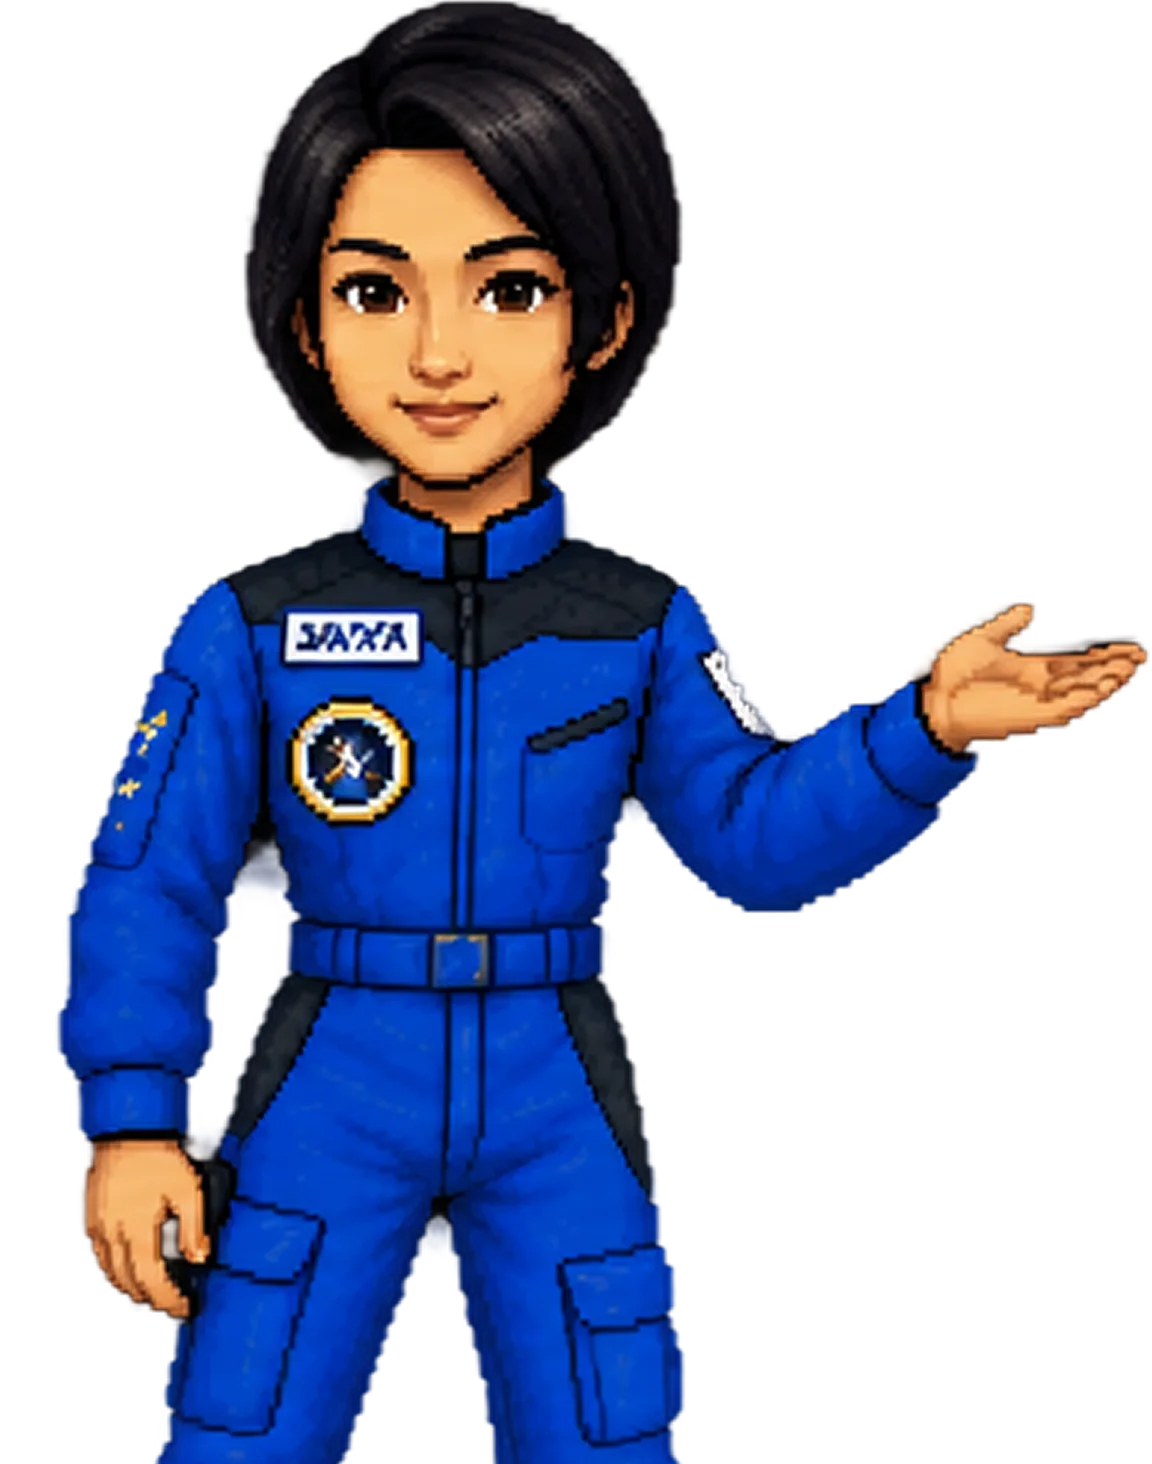
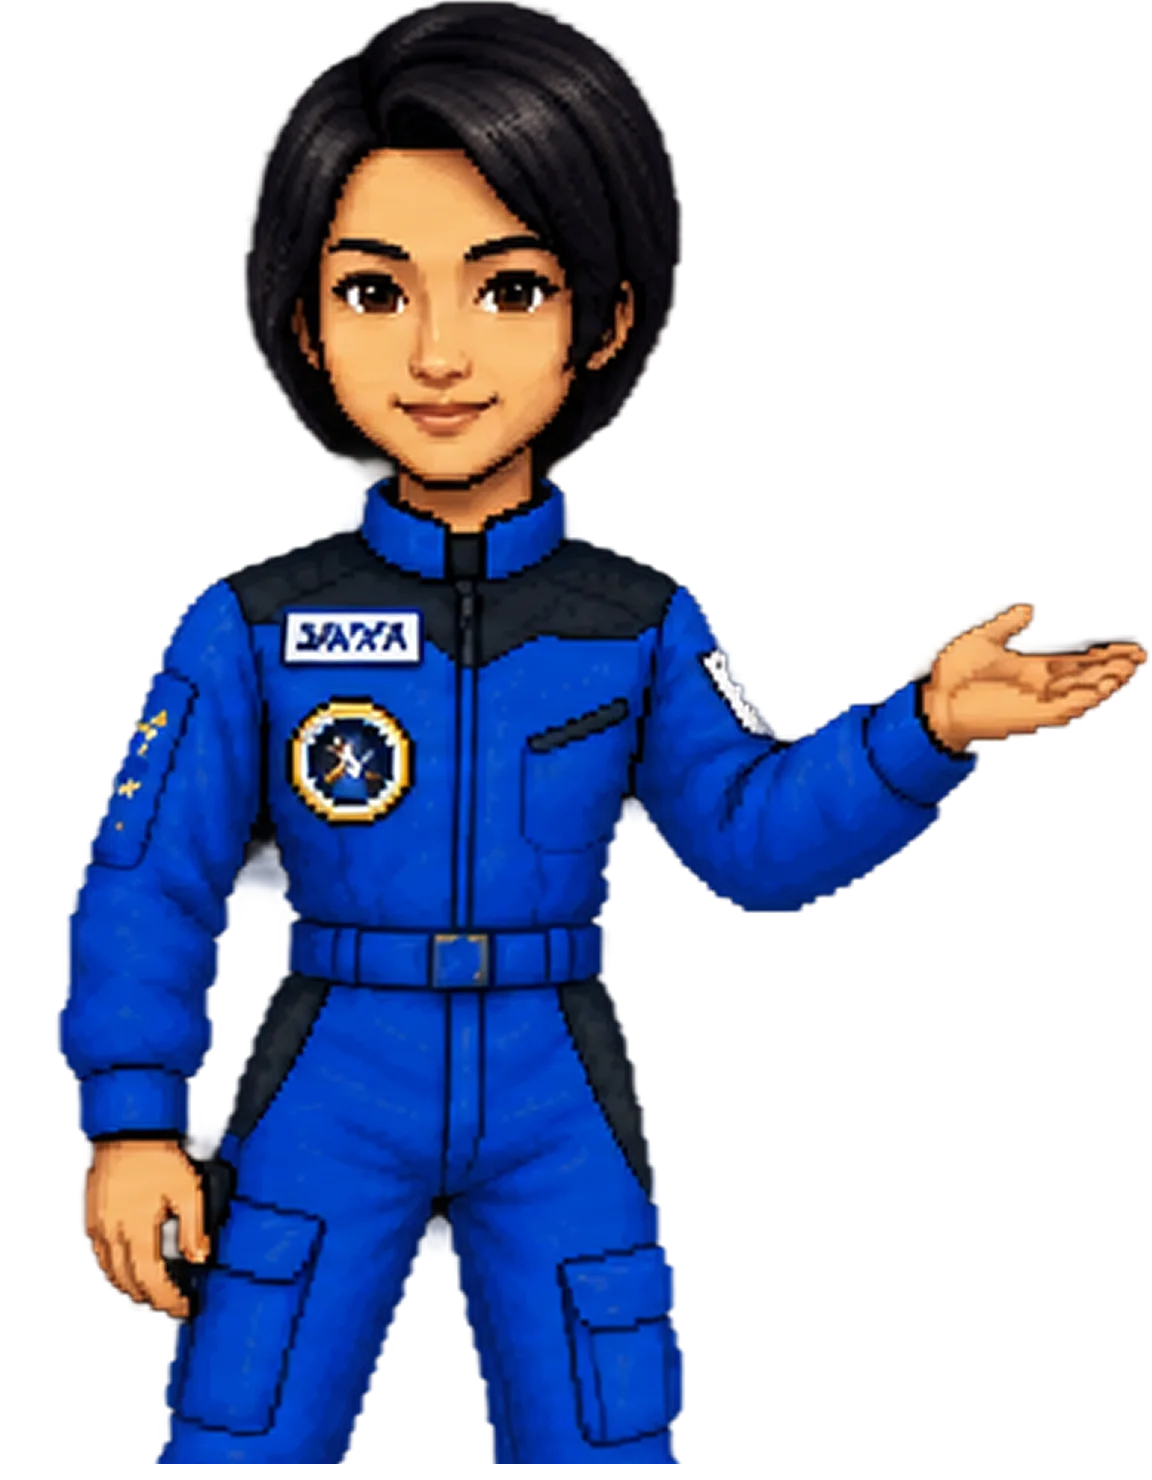
Standardize character pose canvas heights and lock character scaling for scene-to-scene consistency

diff --git a/1.1_power_mission.html b/1.1_power_mission.html
@@ -90,8 +90,8 @@
       position: absolute;
       bottom: -2%;
       left: 2%;
-      width: 22%;
-      height: 60%;
+      height: 52%;
+      width: auto;
       pointer-events: none;
       z-index: 30;
       display: flex;
@@ -100,8 +100,10 @@
     }
 
     .character-chiaki img {
+      height: 100%;
+      width: auto;
       max-height: 100%;
-      max-width: 100%;
+      max-width: none;
       object-fit: contain;
       object-position: bottom left;
       filter: drop-shadow(0 8px 24px rgba(0, 0, 0, 0.75));
@@ -113,8 +115,8 @@
       position: absolute;
       bottom: -2%;
       right: 4%;
-      width: 22%;
-      height: 60%;
+      height: 52%;
+      width: auto;
       pointer-events: none;
       z-index: 10;
       display: flex;
@@ -124,8 +126,10 @@
     }
 
     .character-astronaut img {
+      height: 100%;
+      width: auto;
       max-height: 100%;
-      max-width: 100%;
+      max-width: none;
       object-fit: contain;
       object-position: bottom right;
       filter: drop-shadow(0 8px 24px rgba(0, 0, 0, 0.75));
@@ -135,11 +139,11 @@
     /* Floating Educational Diagram Card (Centered in Middle) */
     .diagram-card-container {
       position: absolute;
-      top: 6%;
+      top: 5.5%;
       left: 50%;
       transform: translateX(-50%);
       width: 50%;
-      height: 60%;
+      height: 58%;
       z-index: 15;
       display: flex;
       align-items: center;
